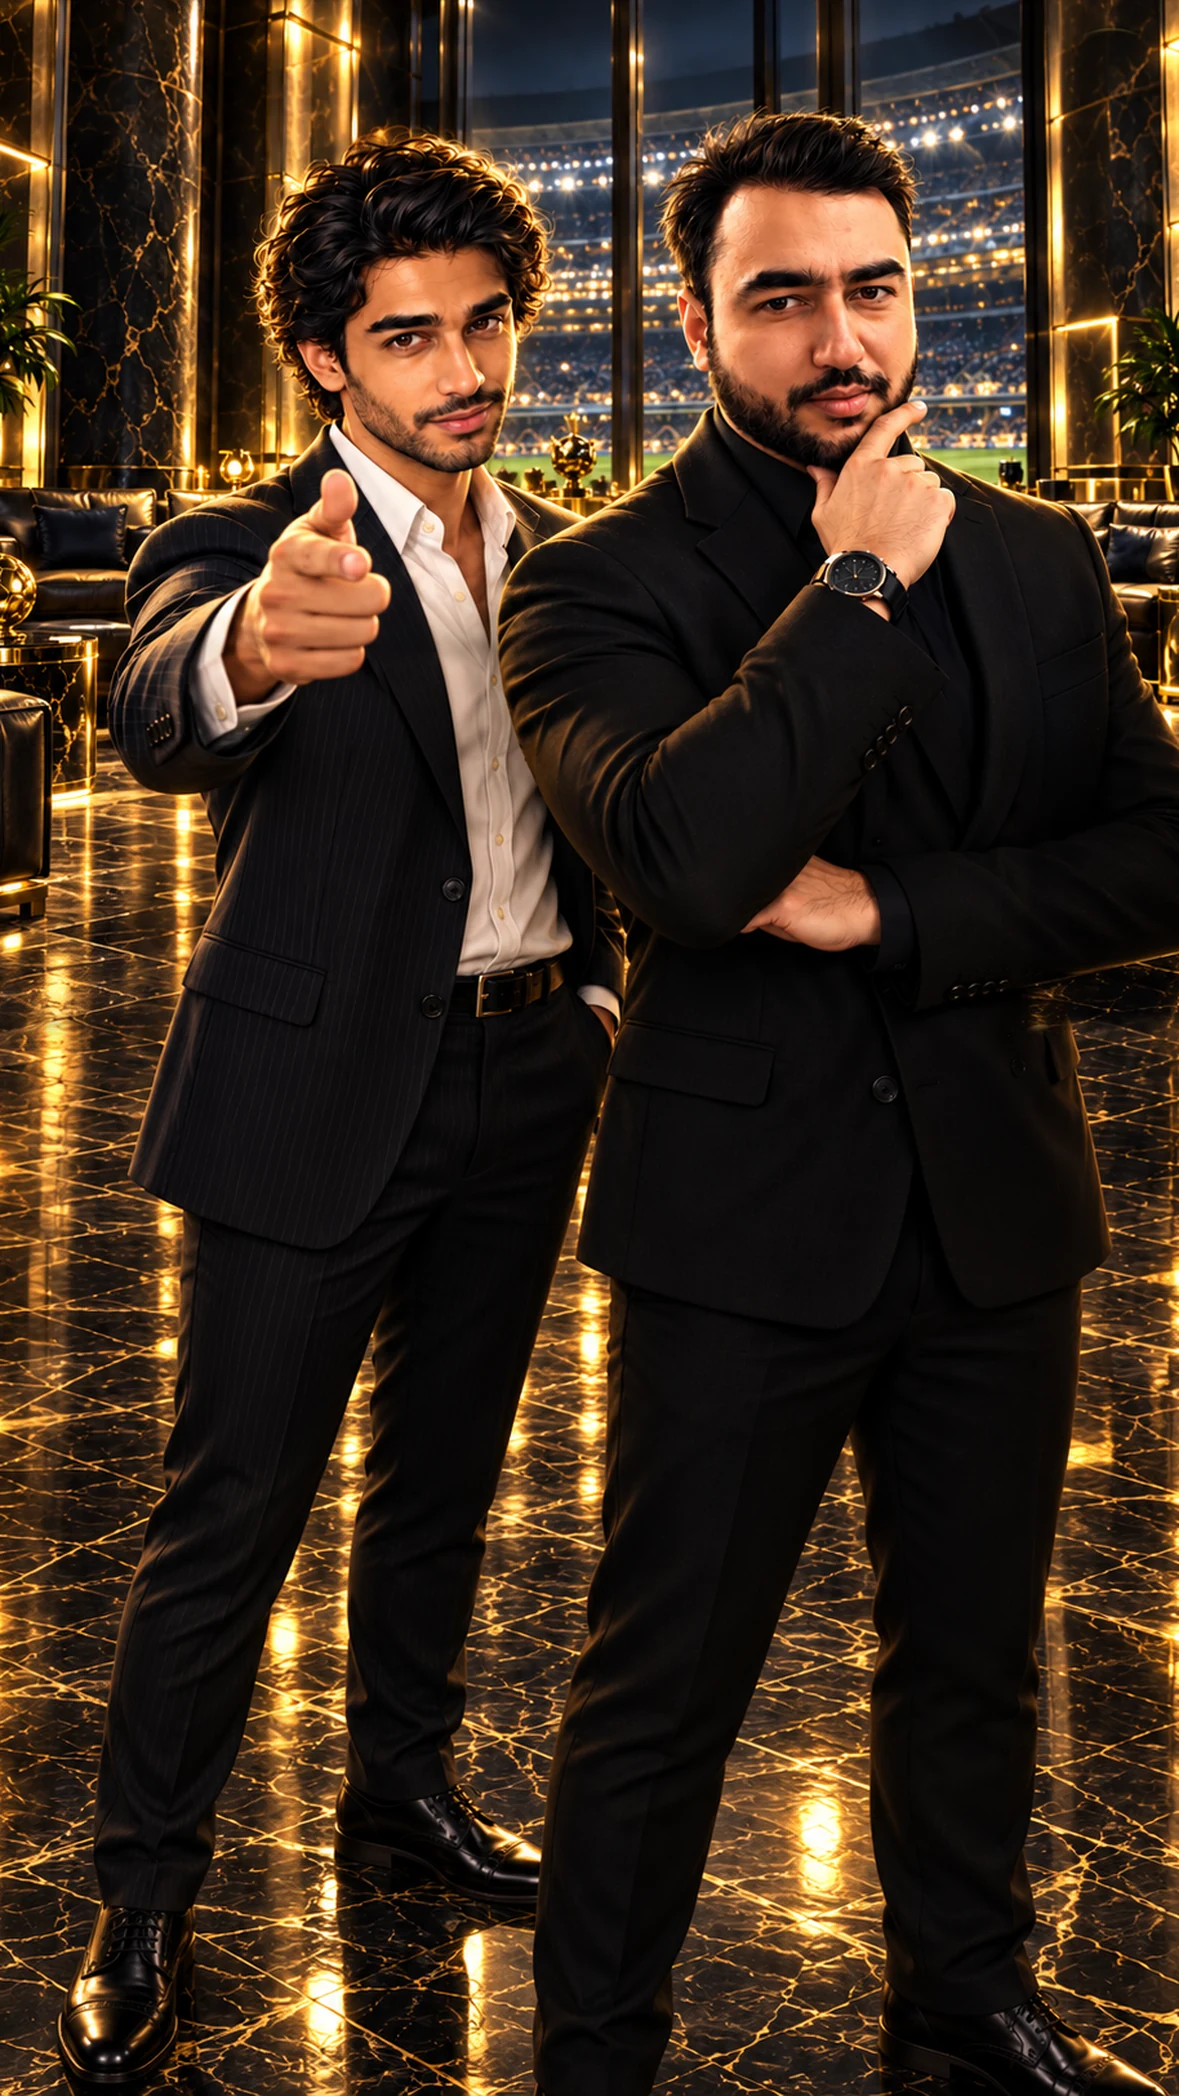
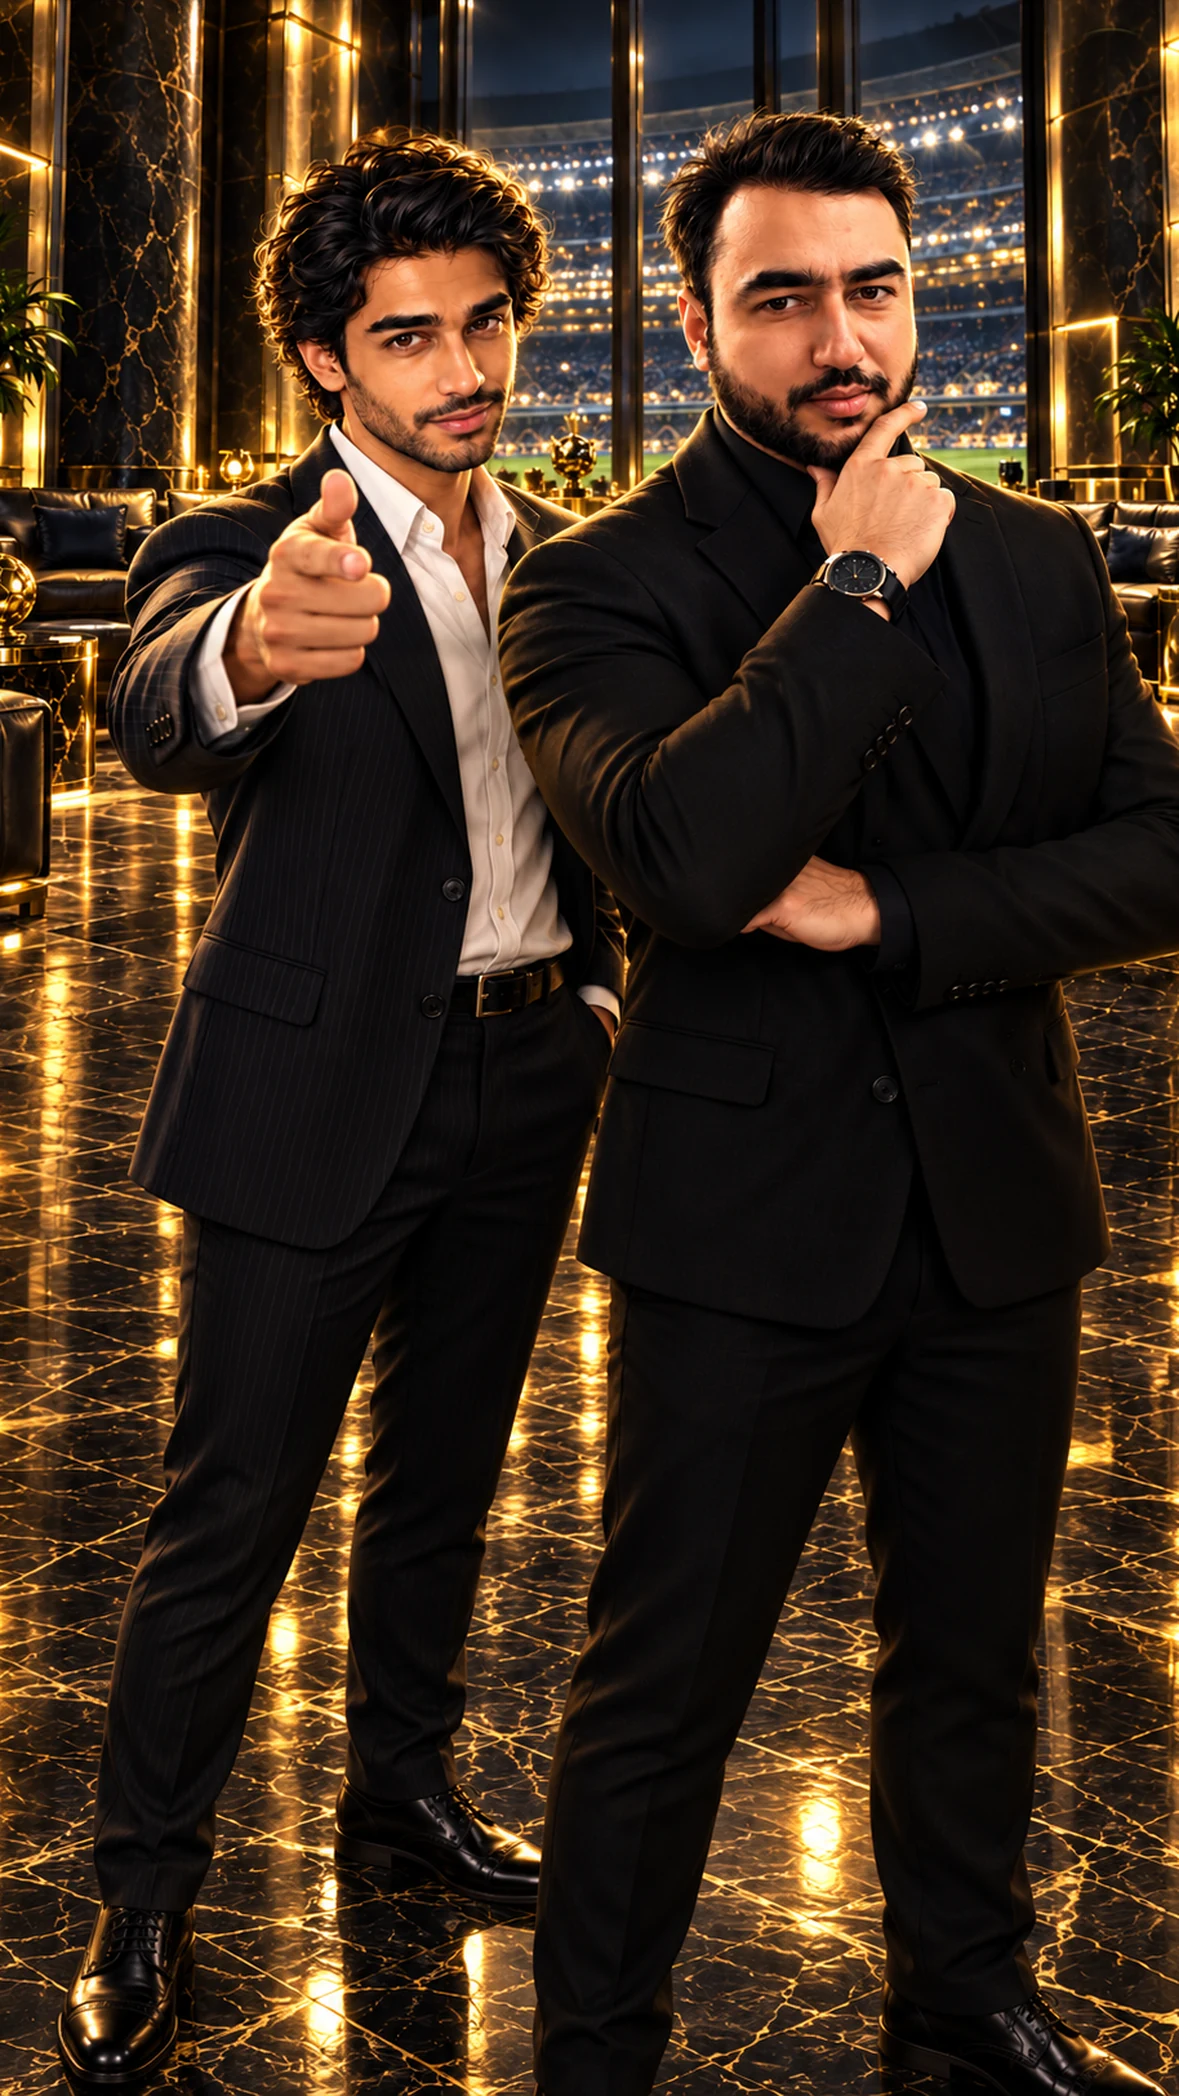
Plates: ENV_CONNECT_PLAYERS_PHONE_V2; phone lock takes GPT below the first wide panel (Home re-locked)
Claude-Session: https://claude.ai/code/session_013pn5j1NjipzmcDNVpF7Fd3

Changed region(s): [[0.0, 0.3101, 0.1221, 0.4962], [0.855, 0.4342, 1.0, 0.4962], [0.9771, 0.3101, 1.0, 0.3411]]

diff --git a/project-documents/factory/tools/phone_plates/lock.py b/project-documents/factory/tools/phone_plates/lock.py
@@ -18,6 +18,9 @@ print('fit',np.round(A,4).tolist(),int(inl.sum()),'/',len(ms))
 gw=cv2.warpAffine(g,A,(W,H),flags=cv2.INTER_LANCZOS4,borderMode=cv2.BORDER_REPLICATE)
 mask=np.zeros((H,W),np.float32)
 for x0,y0,x1,y1 in rects: mask[max(0,y0-12):y1+12,max(0,x0-12):x1+12]=1
+# below the first wide game panel GPT redrew the bodies and floor: take GPT there completely (no seams across legs)
+wide=[y0 for x0,y0,x1,y1 in rects if x1-x0>0.6*W]
+if wide: mask[max(0,min(wide)-12):,:]=1
 mask=cv2.GaussianBlur(mask,(0,0),5)[:,:,None]
 out=(gw*mask+n*(1-mask)).astype(np.uint8)
 cy=((out[:,:,0]>200)&(out[:,:,1]>200)&(out[:,:,2]<80)).sum(); print('cyan px',int(cy))

diff --git a/visual-assets/v10_1/plates-v2/README.md b/visual-assets/v10_1/plates-v2/README.md
@@ -21,3 +21,4 @@ Made with a likeness lock: GPT repainted only the cyan areas of attach/GUIDE_<KE
 | ENV_FINAL_WINNER_PLATE_V2 | Mon 12 Oct 10:08 a.m. Eastern | First try. Faces, banners and name tags from NEXT_FINAL_WINNER; GPT filled the title, the cup, the winner card and buttons, leaving an empty black marble pedestal with a flat top for the live cup, plus confetti and stands. |
 | ENV_STANDINGS_PLATE_V2 | Mon 12 Oct 10:08 a.m. Eastern | First try. Faces, banners and name tags from NEXT_STANDINGS; GPT filled the title and the league table (now the lit stadium, green pitch and marble steps) and the top bar. |
 | ENV_HOME_PHONE_V2 | Mon 12 Oct 9:04 p.m. Eastern | Phone (1179x2096, single file), job 1801 first try. Faces and room locked to PHONE_HOME_MARBLE; GPT filled the title, tiles, music card and tab bar with the men standing full length on the marble floor. |
+| ENV_CONNECT_PLAYERS_PHONE_V2 | Mon 12 Oct 9:06 p.m. Eastern | Phone (1179x2096), job 1801 first try. Faces locked to PHONE_CONNECT_PLAYERS_MARBLE; below the title GPT drew the men full length in the marble tunnel. (Phone lock keeps the approved pixels only above the first wide panel, so legs have no seams; Home re-locked the same way.) |
